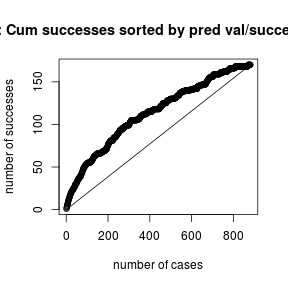
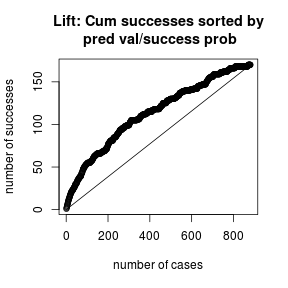
publishing deck

Changed region(s): [[0.0, 0.0312, 1.0, 0.1562]]

diff --git a/class03.html b/class03.html
@@ -770,7 +770,7 @@ df[1:20,]
   <div>
     <h2>Logistic Regression</h2>
     <pre><code class="r">plot(ax,ay.pred,xlab=&quot;number of cases&quot;,ylab=&quot;number of successes&quot;,
-main=&quot;Lift: Cum successes sorted by pred val/success prob&quot;)
+main=&quot;Lift: Cum successes sorted by\n pred val/success prob&quot;)
 points(ax,ay.base,type=&quot;l&quot;)
 </code></pre>
 
@@ -855,8 +855,7 @@ pred &lt;- prediction(data$predictions,data$labels)
 <pre><code class="r">str(pred)
 </code></pre>
 
-<pre><code>##  Named num 160
-##  - attr(*, &quot;names&quot;)= chr &quot;15&quot;
+<pre><code>## Error in str(pred): cannot open file &#39;/home/yuru/connect/yurugit/mydeck-DM-slides/.cache/unnamed-chunk-27_d08bb6dcfab1303b5a45548dd50ac627.rdb&#39;: No such file or directory
 </code></pre>
 
   </div>

diff --git a/class03.md b/class03.md
@@ -769,7 +769,7 @@ df[1:20,]
 
 ```r
 plot(ax,ay.pred,xlab="number of cases",ylab="number of successes",
-main="Lift: Cum successes sorted by pred val/success prob")
+main="Lift: Cum successes sorted by\n pred val/success prob")
 points(ax,ay.base,type="l")
 ```
 
@@ -864,8 +864,7 @@ str(pred)
 ```
 
 ```
-##  Named num 160
-##  - attr(*, "names")= chr "15"
+## Error in str(pred): cannot open file '/home/yuru/connect/yurugit/mydeck-DM-slides/.cache/unnamed-chunk-27_d08bb6dcfab1303b5a45548dd50ac627.rdb': No such file or directory
 ```
 
 
